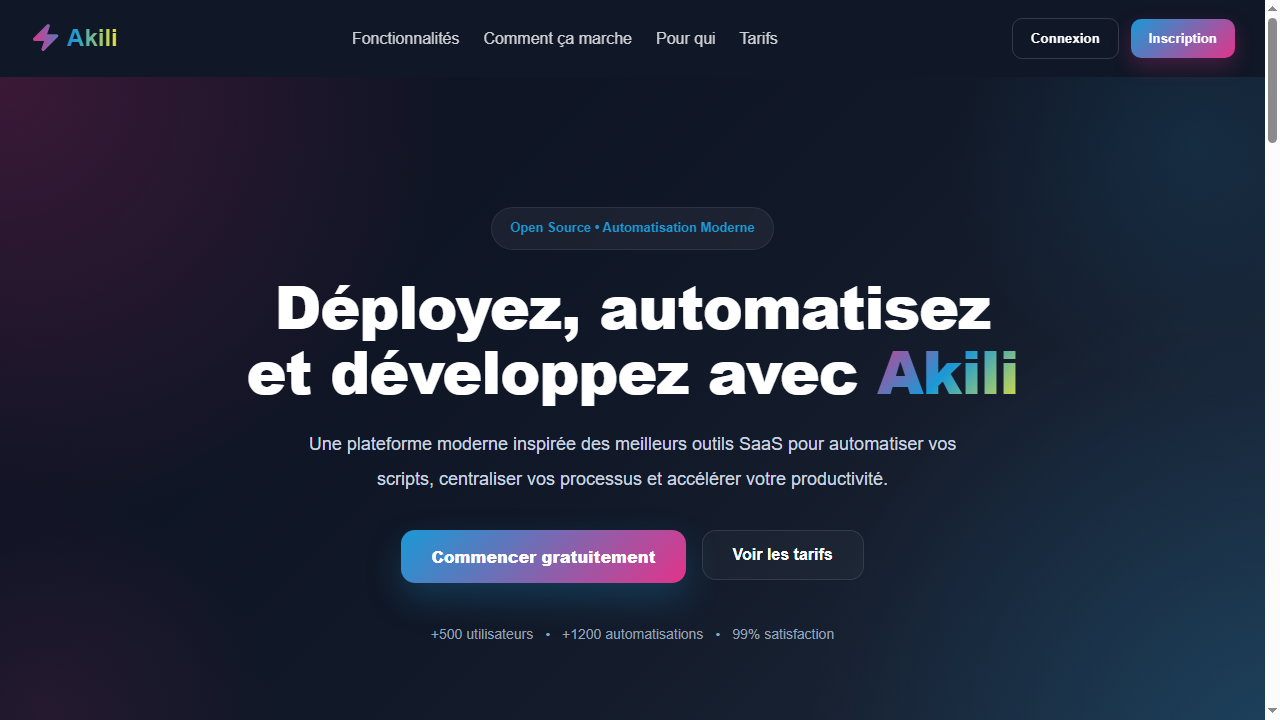
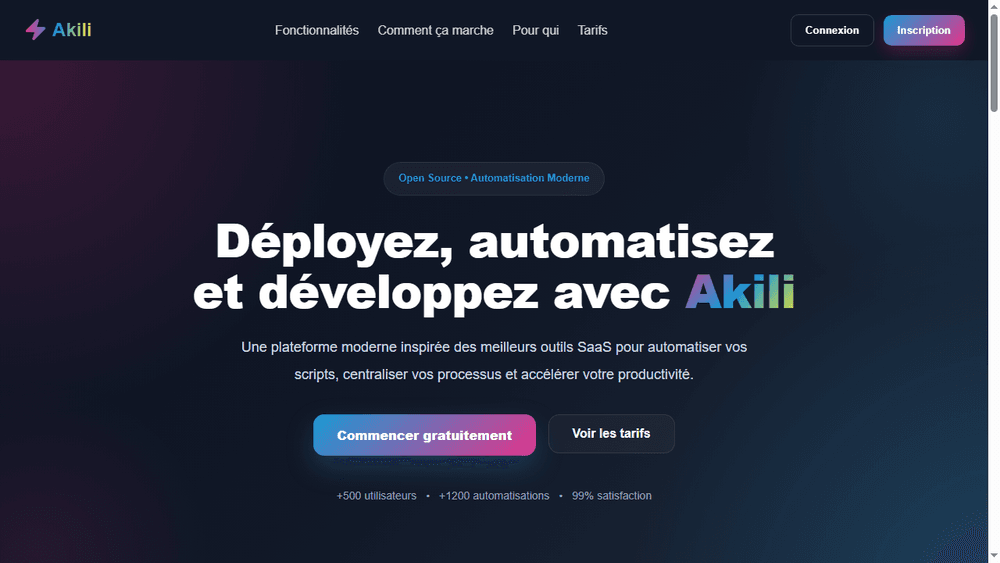
perf: remove artificial loading screen delay + compress heavy image
Supprime le splash screen qui bloquait l'affichage ~1.2s a chaque
visite, ajoute metadataBase pour les previews OG/Twitter, et
compresse akili.png (489Ko -> 78Ko) a sa taille d'affichage reelle.

diff --git a/src/app/page.tsx b/src/app/page.tsx
@@ -6,7 +6,6 @@ import About from "@/components/sections/About";
 import Skills from "@/components/sections/Skills";
 import Services from "@/components/sections/Services";
 import Projects from "@/components/sections/Projects";
-import LoadingScreen from "@/components/ui/LoadingScreen";
 import WhatsAppFloat from "@/components/ui/WhatsAppFloat";
 import ScrollProgress from "@/components/ui/ScrollProgress";
 
@@ -19,7 +18,6 @@ export default function Home() {
   return (
     <>
       <ScrollProgress />
-      <LoadingScreen />
       <WhatsAppFloat />
       <Navbar />
       <main>

diff --git a/src/app/layout.tsx b/src/app/layout.tsx
@@ -10,6 +10,7 @@ const inter = Inter({
 });
 
 export const metadata: Metadata = {
+  metadataBase: new URL("https://donald-fambo.vercel.app"),
   title: "DevDonald — Développeur Web & Mobile Full Stack | Bénin",
   description:
     "Donald Fambo — Développeur Web & Mobile Full Stack basé au Bénin, Afrique de l'Ouest. Spécialisé en React, Next.js, Node.js et Flutter. Disponible pour missions freelance.",
